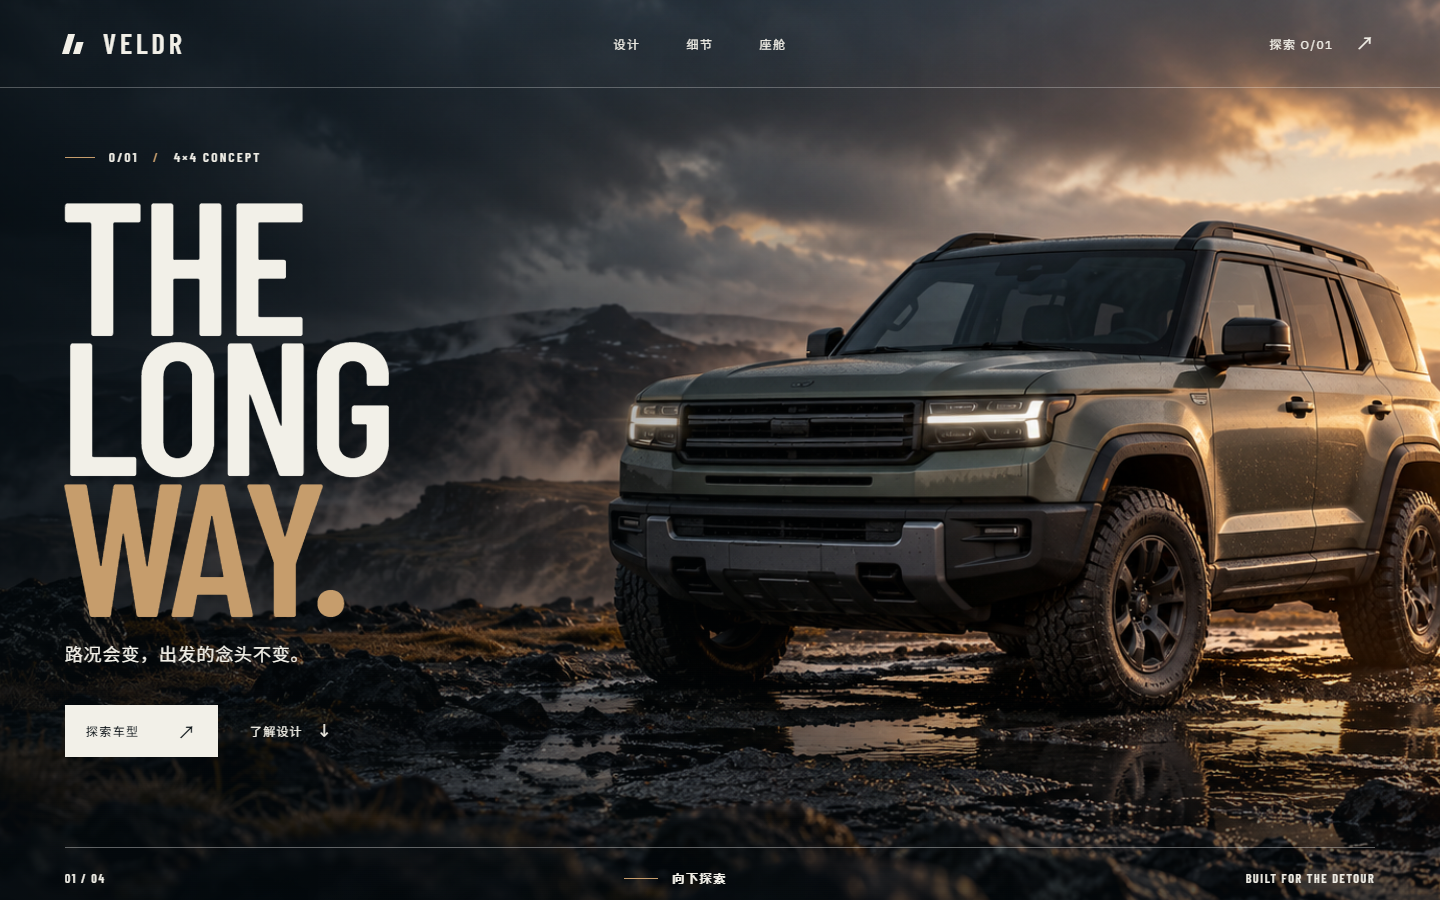
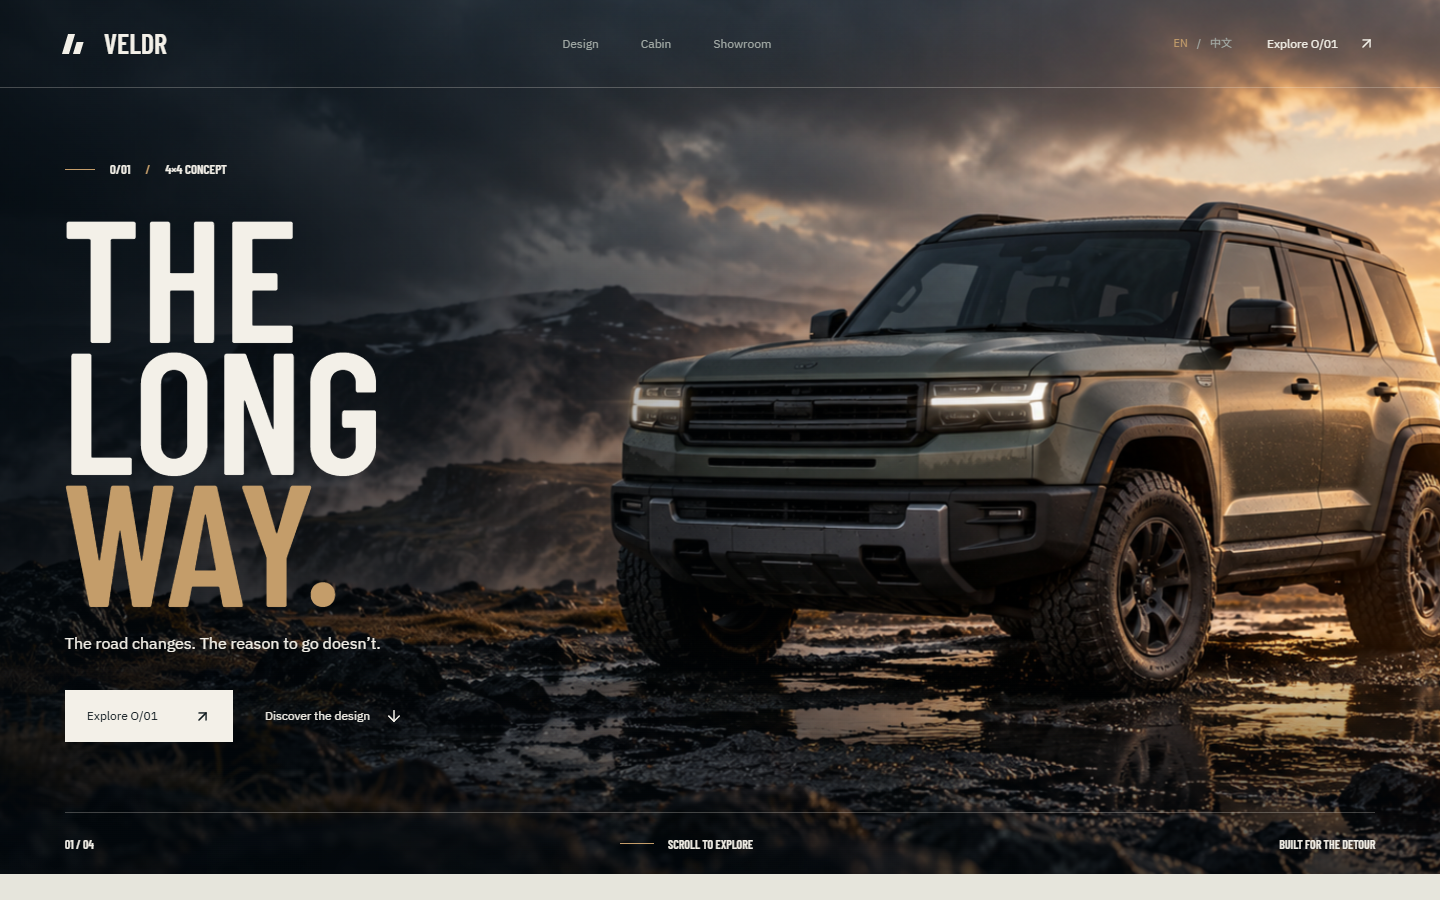
Add verified preview screenshots and publication QA

diff --git a/scripts/subset-font.py b/scripts/subset-font.py
@@ -1,0 +1,14 @@
+"""Regenerate the local Chinese webfont after modifying authored copy (stdlib only)."""
+import json,re,urllib.request,urllib.parse
+from pathlib import Path
+root=Path(__file__).resolve().parents[1]
+manifest=json.loads((root/"docs/font-subset.json").read_text(encoding="utf-8"))
+chars="".join(sorted(set(re.findall(r"[\u3000-\u303f\u3400-\u9fff\uff00-\uffef]","\n".join(p.read_text(encoding="utf-8") for p in (root/"src").rglob("*") if p.suffix in (".ts",".tsx"))))))+"ABCDEFGHIJKLMNOPQRSTUVWXYZabcdefghijklmnopqrstuvwxyz0123456789 .,!?/:;()-–—"
+headers={"User-Agent":"Mozilla/5.0 Chrome/130.0.0.0 Safari/537.36"}
+url="https://fonts.googleapis.com/css2?"+urllib.parse.urlencode({"family":manifest["family"],"text":chars,"display":"swap"})
+with urllib.request.urlopen(urllib.request.Request(url,headers=headers)) as r:css=r.read().decode()
+url=re.findall(r"src:\s*url\(([^)]+)\)",css)[0]
+with urllib.request.urlopen(urllib.request.Request(url,headers=headers)) as r:font=r.read()
+if not font.startswith(b"wOF2"):raise RuntimeError("Expected WOFF2")
+(root/"public"/manifest["path"]).write_bytes(font)
+print("Saved",len(font),"bytes; authored Chinese characters covered:",len(chars))

diff --git a/docs/PUBLICATION-QA.md b/docs/PUBLICATION-QA.md
@@ -1,0 +1,21 @@
+# Publication QA — 2026-10-07
+
+Independent Codex verification against the actual GitHub Actions production build artifact, served locally at the same repository base path.
+
+- TypeScript check and production build: passed in GitHub Actions.
+- Four direct-entry routes × two viewport sizes (1440×900, 390×844) × EN/ZH: 16 states checked.
+- Page errors: 0. Recorded failed normal resources: 0. Horizontal overflow: 0. Broken settled images: 0.
+- Chinese page language and visible translated content checked. CHROMA uses zh-Hans; the other sites use zh-CN. Brand headlines may remain proper English names.
+- Desktop and mobile homepage screenshots reviewed; assets/preview.png updated from this actual build.
+
+## Actual interaction evidence
+
+{
+  "hotspot": "true",
+  "galleryBefore": "/veldr-o01-product-preview/assets/hero-plateau.png",
+  "galleryAfter": "/veldr-o01-product-preview/assets/side-profile.png"
+}
+
+## Limits
+
+Chromium automation and viewport emulation; physical touch devices, other browser engines, and formal screen-reader acceptance were not repeated. Historical Lovable lifecycle/reduced-motion evidence is preserved separately in docs/lovable/QA.md. Public deployment is verified separately after promotion to main.
